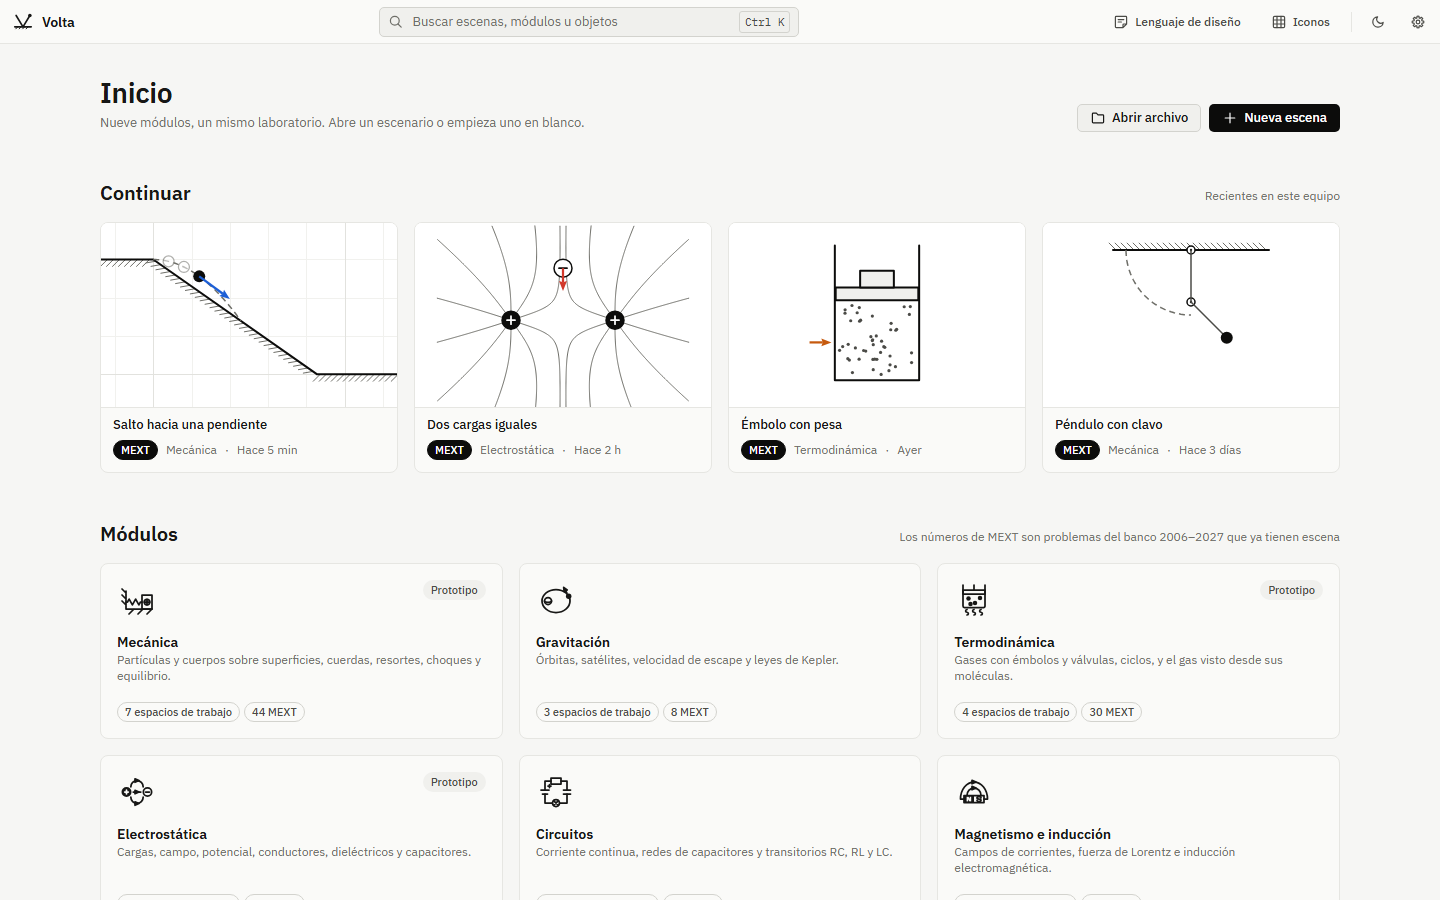
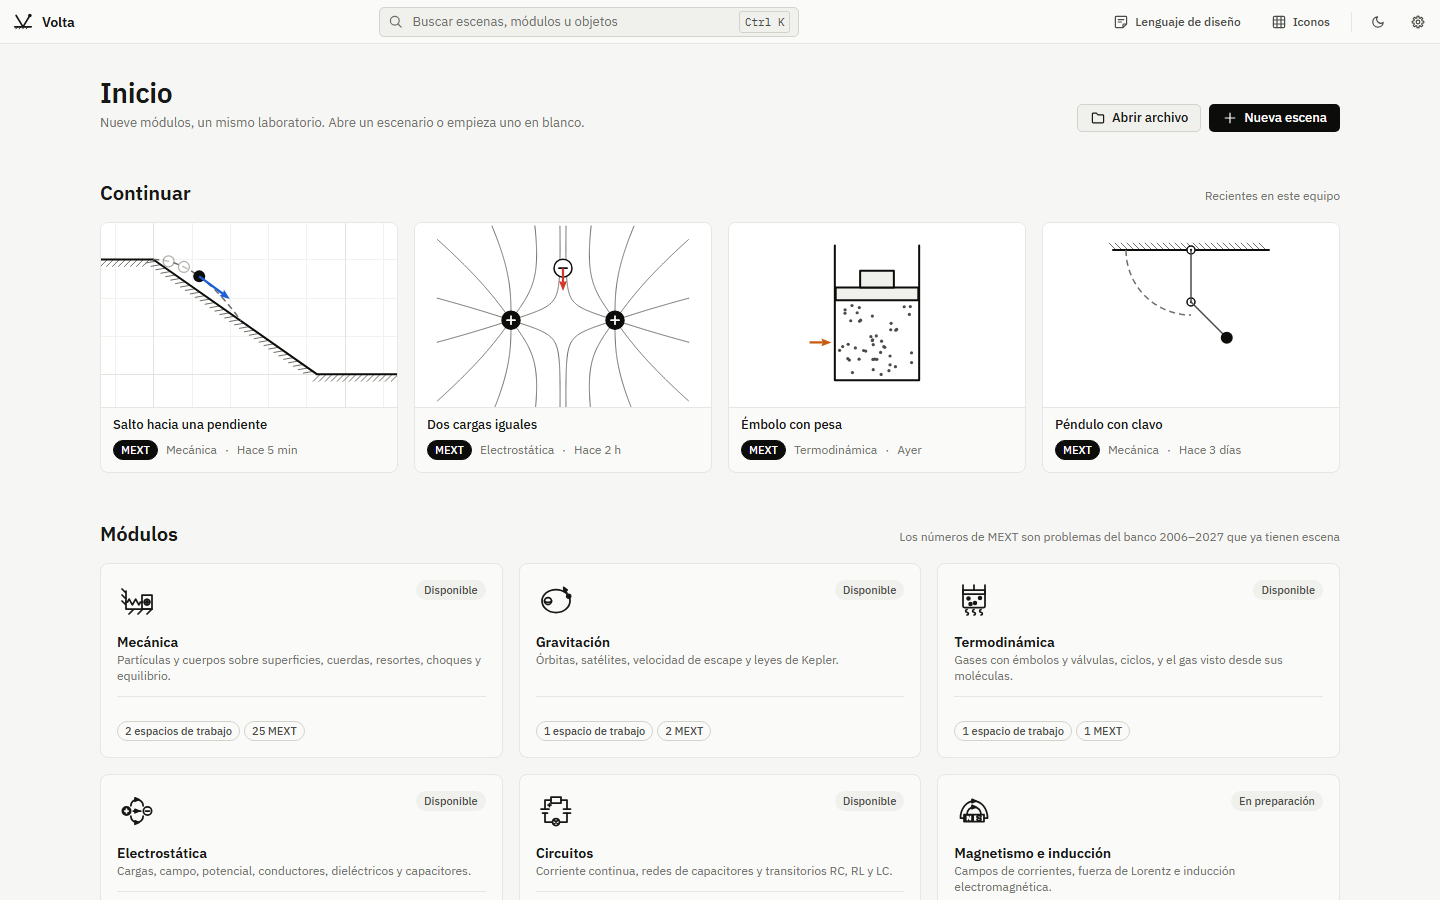
Volta 0.6.0

diff --git a/CHANGELOG.md b/CHANGELOG.md
@@ -7,6 +7,46 @@ el proyecto usa [versionado semántico](https://semver.org/lang/es/).
 
 ## [Sin publicar]
 
+## [0.6.0] - 2026-11-19
+
+Módulo de Óptica con tres espacios de trabajo y 14 problemas MEXT.
+
+### Añadido
+
+- Módulo Óptica con tres espacios de trabajo:
+  - «Óptica geométrica»: trazado exacto de rayos contra segmentos y arcos
+    en medios de forma libre (lámina, prisma, círculo, semicírculo,
+    polígono, lente gruesa, recipiente con líquido), con índice fijo o de
+    Cauchy. Snell, reflexión total, reparto de Fresnel (R + T = 1),
+    espejos planos y esféricos, lente ideal, divisor de haz, pantalla y
+    ojo. La luz blanca se separa en la primera interfaz dispersiva. Las
+    imágenes salen de la fórmula y también del cruce de los rayos
+    trazados, con aumento y carácter real o virtual. 18 escenas, 8 MEXT.
+  - «Interferencia y difracción»: suma de fasores de Huygens con las
+    distancias exactas y la forma cerrada de Fraunhofer; rendija simple,
+    doble, N rendijas y red; medio entre rendijas y pantalla; franjas con
+    su color real, punto P con los caminos r₁ y r₂, regla y tabla de
+    máximos y mínimos. 9 escenas, 4 MEXT.
+  - «Películas e interferómetros»: reflectancia de Airy (el cambio de fase
+    de π sale de Fresnel), cuña, anillos de Newton y Michelson con espejo
+    móvil o lámina girada y contador de franjas. 9 escenas, 3 MEXT.
+- Color de cada longitud de onda con las funciones CIE 1931 llevadas a
+  sRGB y ajustadas en OKLab para mantener el contraste con el fondo.
+- 51 pruebas del motor de Óptica, incluidas las respuestas de 14
+  problemas MEXT.
+
+### Cambiado
+
+- Inicio muestra los conteos reales de espacios de trabajo y escenas MEXT
+  de cada módulo; los módulos en preparación ya no muestran cifras.
+- Abrir un archivo de Óptica desde un espacio distinto lleva a la pantalla
+  de su espacio en lugar de rechazarlo.
+
+### Corregido
+
+- Los atajos de teclado y la línea de tiempo ya no lanzan errores con
+  eventos que no vienen de un elemento.
+
 ## [0.5.1] - 2026-11-19
 
 ### Corregido
@@ -233,7 +273,8 @@ interactivos, empaquetados como aplicación de Windows.
 - Los módulos Gravitación, Circuitos, Magnetismo, Ondas, Óptica y Física
   moderna aún no tienen pantalla.
 
-[Sin publicar]: https://github.com/Eliam4510/volta-fisica/compare/v0.5.1...HEAD
+[Sin publicar]: https://github.com/Eliam4510/volta-fisica/compare/v0.6.0...HEAD
+[0.6.0]: https://github.com/Eliam4510/volta-fisica/compare/v0.5.1...v0.6.0
 [0.5.1]: https://github.com/Eliam4510/volta-fisica/compare/v0.5.0...v0.5.1
 [0.5.0]: https://github.com/Eliam4510/volta-fisica/compare/v0.4.0...v0.5.0
 [0.4.0]: https://github.com/Eliam4510/volta-fisica/compare/v0.3.0...v0.4.0

diff --git a/README.md b/README.md
@@ -53,7 +53,7 @@ Principios del proyecto:
 | Circuitos | Utilizable | Corriente continua, redes de capacitores, transitorios RC, RL y LC |
 | Magnetismo e inducción | Planeado | Fuerza de Lorentz, inducción electromagnética |
 | Ondas y sonido | Utilizable | Cuerdas y tubos (reflexión, uniones, modos, resonancia) y Doppler con audio; la cubeta 2D, en preparación |
-| Óptica | Planeado | Rayos, refracción, interferencia |
+| Óptica | Utilizable | Trazado de rayos (Snell, Fresnel, reflexión total, prismas con dispersión, lentes y espejos), interferencia y difracción por suma de Huygens, películas delgadas, anillos de Newton y Michelson |
 | Física moderna | Planeado | Efecto fotoeléctrico, núcleo |
 
 El plan completo, con dependencias y orden de implementación, está en
@@ -78,6 +78,14 @@ El plan completo, con dependencias y orden de implementación, está en
 | Ondas: medio 1D | Ondas: Doppler y acústica |
 |---|---|
 | ![Ondas](docs/diseno/capturas/f9_ondas.png) | ![Doppler](docs/diseno/capturas/f10_doppler.png) |
+
+| Óptica geométrica | Interferencia y difracción |
+|---|---|
+| ![Óptica geométrica](docs/diseno/capturas/f11_optica.png) | ![Interferencia](docs/diseno/capturas/f12_interferencia.png) |
+
+| Películas e interferómetros | |
+|---|---|
+| ![Michelson](docs/diseno/capturas/f13_peliculas.png) | |
 
 ## Instalación
 
